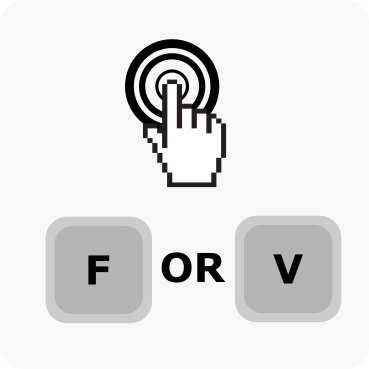
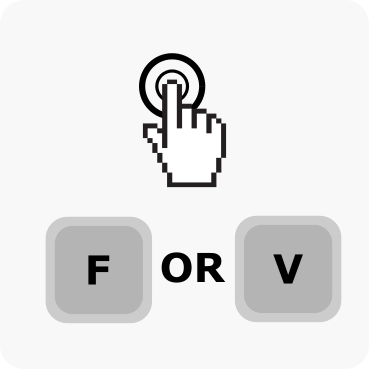
interact popup implemented, will show when snail walks near it

Changed region(s): [[0.3279, 0.0894, 0.5962, 0.3577]]

diff --git a/shellPlatformer/Assets/Scripts/Interactables/Switch.cs b/shellPlatformer/Assets/Scripts/Interactables/Switch.cs
@@ -14,16 +14,21 @@ public class Switch : MonoBehaviour {
     [SerializeField] private AudioClip ActivateSound;
     private AudioSource audioSource;
 
+	private GameObject popUp;
+
     private void Start() {
         audioSource = gameObject.AddComponent<AudioSource>();
         audioSource.clip = ActivateSound;
+		popUp = (GameObject) Instantiate(Resources.Load("interactPopup"));
+		popUp.transform.position = new Vector3 (transform.position.x, transform.position.y + 1f, 0);
+		popUp.SetActive (false);
     }
 
     // Checks if colliding objects is not a trigger and if current time
     // is larger than timeStamp. timeStamp is set to current time plus
     // "switchCooldown"
     private void OnTriggerStay2D(Collider2D collision) {
-
+			
 		bool use = Input.GetButtonDown ("Use");
 
 		if (use) {
@@ -53,6 +58,11 @@ public class Switch : MonoBehaviour {
 	// same as onTriggerStay2D but with only enter for the shell and the npc snail
 	private void OnTriggerEnter2D(Collider2D collision) {
 
+		// load Interact popup if snail enters
+		if (collision.tag == "Player") {
+			popUp.SetActive (true);
+		}
+
 		if (collision.tag == "Shell" && collision.gameObject.transform.parent == null || collision.gameObject.tag == "NPC") {
 			if (Time.time >= timeStamp && !collision.isTrigger) {
 				foreach (GameObject i in interactables) {
@@ -76,4 +86,8 @@ public class Switch : MonoBehaviour {
 		}
 
 	} 
+	private void OnTriggerExit2D(Collider2D collision){
+		popUp.SetActive (false);
+	}
+		
 }

diff --git a/shellPlatformer/Assets/Logging/LoggingManager.cs b/shellPlatformer/Assets/Logging/LoggingManager.cs
@@ -274,7 +274,7 @@ public class LoggingManager : MonoBehaviour, GameManager {
         UnityWebRequest www = UnityWebRequest.Get(pageHost + phpPath + playerABTestPath + requestData);
         yield return www.Send();
 
-        if (www.isError) {
+        if (www.isNetworkError) {
             Debug.Log(www.error);
         } else {
             string logReturnedString = www.downloadHandler.text;
